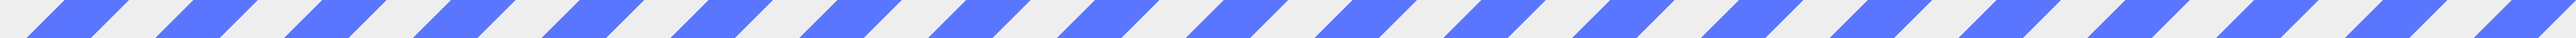
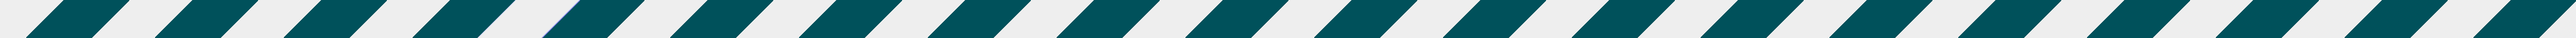
color changed

diff --git a/WebContent/resource/css/common.css b/WebContent/resource/css/common.css
@@ -404,8 +404,8 @@ label[for] {
 }
 
 .top-bar .menu-box-1>ul ul {
-	background-color:#202338;
-	color: white;
+	background: #0f3854; background: radial-gradient(ellipse at center,  #0a2e38  0%, #000000 70%); background-size: 100%;"
+	color: #daf6ff;
 	display: none;
 	position: absolute;
 	z-index: 10;
@@ -416,7 +416,8 @@ label[for] {
 
 .top-bar .menu-box-1 ul>li:hover>ul {
 	display: block;
-	border: 2px solid #444958;
+	border: 2px solid #daf6ff;
+	box-shadow: 0 0 20px rgba(10, 175, 230, 1),  0 0 20px rgba(10, 175, 230, 0);
 	border-top-width: 0;
 }
 
@@ -425,24 +426,24 @@ label[for] {
 	padding: 30px 0;
 	font-weight: 100;
 	font-size: .9rem;
-	color: white;
+	color: #daf6ff;
 }
 
 .top-bar .menu-box-1>ul ul>li:hover>a {
-	background-color: #20232b;
+	background-color: none;
 	color: crimson;
-	font-weight: 100;
-	font-size: .9rem;
+	font-weight: bold;
 }
 
 .tbrln {
-	margin-top: -37px;
+	margin-top: -68px;
 	width: 100%;
 	height: 5px;
 	margin-left: auto;
 	margin-right: auto;
-	background: linear-gradient(to right, #444958, #414654, #393D4A);
-	opacity: .7;
+	background: #daf6ff;
+	opacity: 1;
+	box-shadow: 0 0 20px rgba(10, 175, 230, 1),  0 0 20px rgba(10, 175, 230, 0);;
 }
 .member-bar {
 	display:flex;
@@ -467,7 +468,6 @@ label[for] {
 
 /* 모바일 탑바 시작 */
 .mobile-top-bar {
-	background-color: #202338;
 	color: black;
 	top: 0;
 	left: 0;
@@ -493,7 +493,8 @@ label[for] {
 	position: absolute;
 	width: 100%;
 	height: 20%;
-	background-color: #444958;
+	background-color: #daf6ff;
+	box-shadow: 0 0 20px rgba(10, 175, 230, 1),  0 0 20px rgba(10, 175, 230, 0);
 	top: 0;
 	left: 0;
 	transition: top .2s .2s, transform .2s 0s, visibility 0s .2s;
@@ -553,7 +554,8 @@ label[for] {
 .mobile-side-bar.active {
 	visibility: visible;
 	opacity: 1;
-	background-color: #202338;
+	background-color: #0f3854;
+	background: radial-gradient(ellipse at center,  #0a2e38  0%, #000000 70%); background-size: 100%;"
 }
 
 .mobile-side-bar>.menu-box-1 {
@@ -569,7 +571,7 @@ label[for] {
 	text-align: center;
 	padding: 20px;
 	font-weight: 100;
-	color: white;
+	color: #daf6ff;
 }
 
 .mobile-side-bar>.menu-box-1 ul>li>a:not (:only-child )::after {
@@ -626,10 +628,3 @@ label[for] {
 	0% { opacity: 0; }
 	100% { opacity : 1; }
 }
-
-/*
-@keyframes blink {
-	0% { opacity: 0; }
-	100% { opacity : 1; }
-} */
-/* 배경*/

diff --git a/WebContent/resource/css/home/main.css b/WebContent/resource/css/home/main.css
@@ -385,10 +385,10 @@ label[for] {
     border: 4px double rgba(255, 255, 255, .25);
     border-width: 4px 0;
     padding: 1.5em 0em;
-    color: #444958;
     width: 100%;
-
-}
+    color: #daf6ff;
+	text-shadow: 0 0 20px rgba(10, 175, 230, 1),  0 0 20px rgba(10, 175, 230, 0);
+}	
 
 .index>p>span {
     font: 700 4em/1 "Oswald", sans-serif;
@@ -423,6 +423,22 @@ label[for] {
     100% {
         background-position: 100% 50%;
     }
+}
+
+/* clock css */
+
+
+#MyClockDisplay {
+    color: #ffffff;
+    text-align: center;
+    position: absolute;
+    left: 50%;
+    top: 55%;
+    transform: translate(-50%, -50%);
+    color: #daf6ff;
+    font-family: Orbitron;
+    text-shadow: 0 0 20px rgba(10, 175, 230, 1),  0 0 20px rgba(10, 175, 230, 0);
+    font-size:3rem;
 }
 
 

diff --git a/WebContent/resource/css/home/aboutMe.css b/WebContent/resource/css/home/aboutMe.css
@@ -368,7 +368,7 @@ label[for] {
 	border: 4px double rgba(255, 255, 255, .25);
 	border-width: 4px 0;
     height: 200px;
-    margin-top: 250px;
+    margin-top: 50px;
     margin-bottom: 50px;
     margin-left: auto;
     margin-right: auto;

diff --git a/src/com/sbs/java/blog/controller/ArticleController.java b/src/com/sbs/java/blog/controller/ArticleController.java
@@ -65,6 +65,8 @@ public class ArticleController extends Controller {
 	
 
 	private String actionDoReplyModify() {
+		
+		articleService.modifyReply(replyId);
 
 		return "html:<script> alert('댓글이 수정되었습니다.'); location.replace('history.back()')</script>";
 	}
@@ -72,9 +74,7 @@ public class ArticleController extends Controller {
 	private String actionReplyModify() {
 		int replyId = Util.getInt(req, "replyId");
 		
-		articleService.modifyReply(replyId);
-		
-		return "html:<script> alert('댓글이 수정되었습니다.'); location.replace('history.back()')</script>";
+		return "articleReply/articleReplyModify.jsp";
 	}
 
 	private String actionReplyDelete() {
